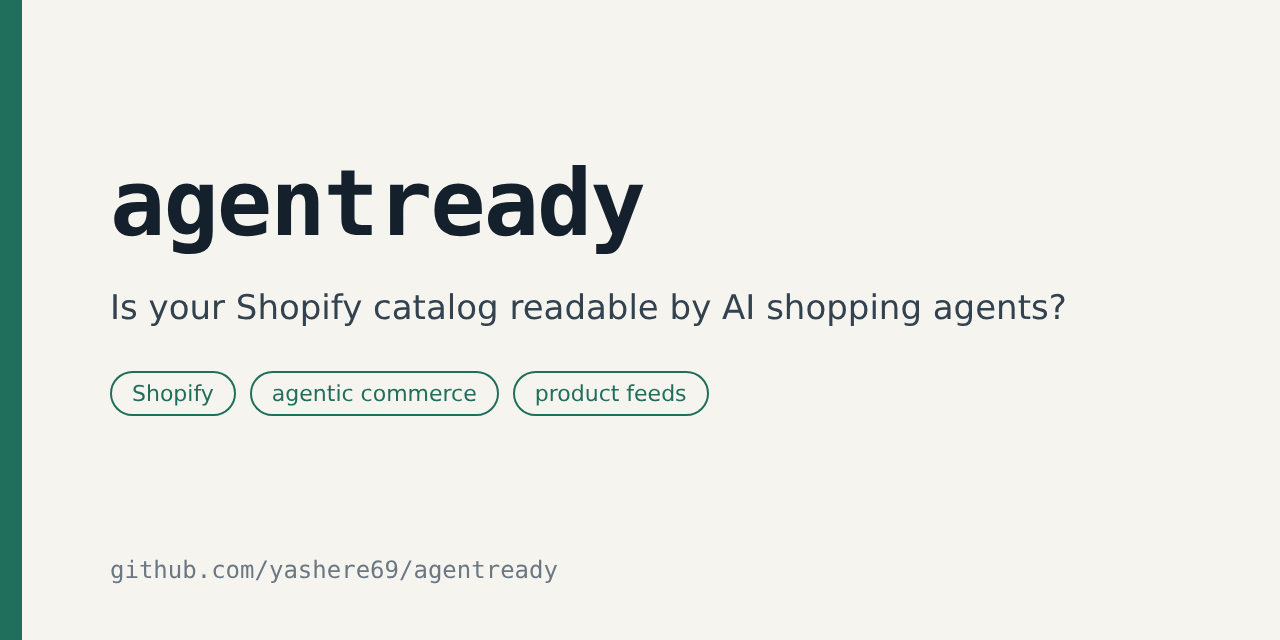
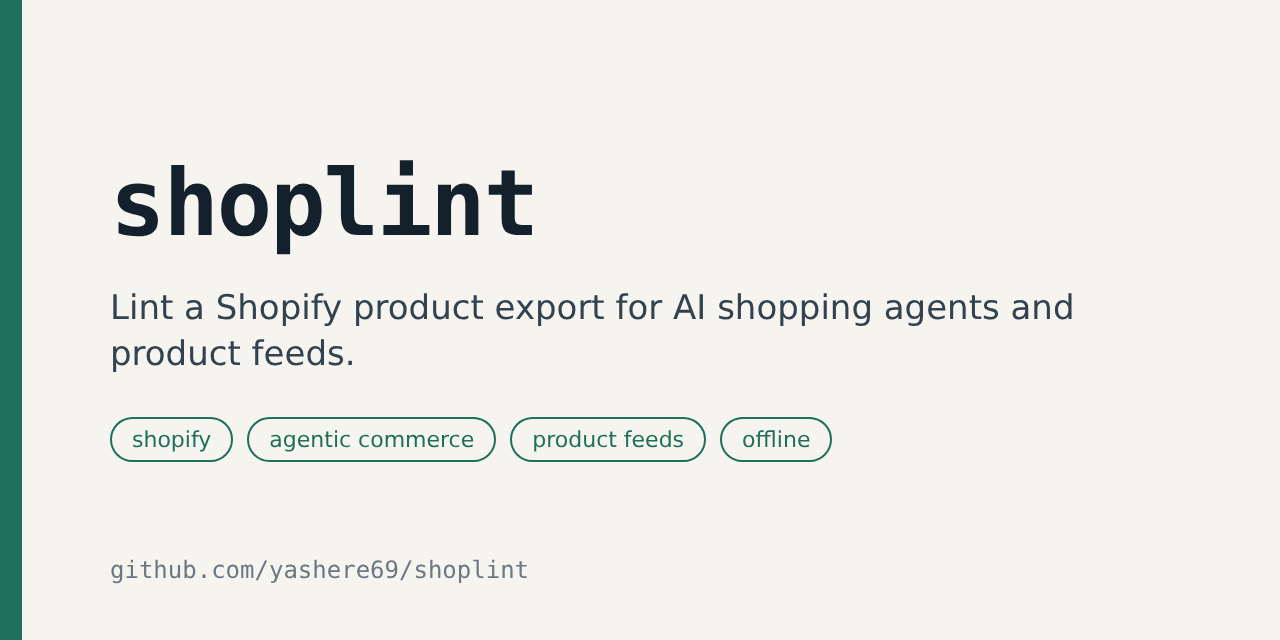
Release 0.3.0

Changed region(s): [[0.0938, 0.4375, 0.8438, 0.7188], [0.0938, 0.25, 0.5, 0.4062], [0.3125, 0.875, 0.4375, 0.9062]]

diff --git a/tests/test_probe_export_cli.py b/tests/test_probe_export_cli.py
@@ -17,7 +17,7 @@ AFTER = ROOT / "examples" / "indigo-loom-fixed.csv"
 def test_sample_catalog_matches_reviewed_expectations():
     findings = audit(read_csv(BEFORE), [load_pack(n) for n in builtin_packs()])
     got = sorted([f.rule, f.target] for f in findings if f.level != "info")
-    expected = sorted(yaml.safe_load((ROOT / "eval" / "expected.yaml").read_text()))
+    expected = sorted(yaml.safe_load((ROOT / "eval" / "expected.yaml").read_text(encoding="utf-8")))
     assert got == expected
 
 
@@ -64,9 +64,9 @@ def test_cli_audit_exit_codes_and_outputs(tmp_path, capsys):
         )
         == 1
     )
-    html = (tmp_path / "r.html").read_text()
+    html = (tmp_path / "r.html").read_text(encoding="utf-8")
     assert '<html lang="en">' in html and "acp.item-id" in html
-    data = json.loads((tmp_path / "r.json").read_text())
+    data = json.loads((tmp_path / "r.json").read_text(encoding="utf-8"))
     assert data["probe"]["questions"] > 0
     assert (
         main(
@@ -83,7 +83,7 @@ def test_cli_audit_exit_codes_and_outputs(tmp_path, capsys):
         )
         == 0
     )
-    assert len((tmp_path / "feed.jsonl").read_text().splitlines()) > 20
+    assert len((tmp_path / "feed.jsonl").read_text(encoding="utf-8").splitlines()) > 20
 
 
 def test_cli_rejects_unknown_file(capsys):
@@ -113,7 +113,7 @@ def test_large_catalog_stays_fast(tmp_path):
                 f"{size},SKU{i}{size},999"
             )
     p = tmp_path / "big.csv"
-    p.write_text("\n".join(lines))
+    p.write_text("\n".join(lines), encoding="utf-8")
     start = time.perf_counter()
     findings = audit(read_csv(p), [load_pack(n) for n in builtin_packs()])
     assert time.perf_counter() - start < 5  # was ~20 s when size systems were recounted
@@ -128,7 +128,8 @@ def test_custom_question_set(tmp_path, make_product):
         "- id: warranty\n  ask: Is there a warranty?\n"
         "  structured: {metafields: [warranty]}\n  prose: '\\bwarranty\\b'\n"
         "- id: voltage\n  ask: What voltage?\n  applies_if: {text: lamp}\n"
-        "  structured: {options: [voltage]}\n  prose: '\\d+ ?V\\b'\n"
+        "  structured: {options: [voltage]}\n  prose: '\\d+ ?V\\b'\n",
+        encoding="utf-8",
     )
     questions = load_questions(qs)
     kettle = make_product(title="Steel kettle", body_html="<p>1 year warranty</p>")
@@ -138,7 +139,7 @@ def test_custom_question_set(tmp_path, make_product):
 
 def test_bad_question_file_is_a_clean_error(tmp_path, capsys):
     qs = tmp_path / "q.yaml"
-    qs.write_text("- id: x\n  ask: y\n")
+    qs.write_text("- id: x\n  ask: y\n", encoding="utf-8")
     assert main(["audit", str(BEFORE), "--questions", str(qs)]) == 2
     assert "needs id, ask and prose" in capsys.readouterr().err
 
@@ -148,7 +149,7 @@ def test_findings_csv_and_input_protection(tmp_path):
 
     out = tmp_path / "fixes.csv"
     main(["audit", str(BEFORE), "--findings-csv", str(out), "--fail-on", "never"])
-    rows = list(csvmod.DictReader(out.open()))
+    rows = list(csvmod.DictReader(out.open(encoding="utf-8")))
     assert rows[0].keys() == {"level", "rule", "product", "detail", "why"}
     assert any(r["rule"] == "acp.item-id" for r in rows)
     copy = tmp_path / "in.csv"

diff --git a/tools/before_after.py b/tools/before_after.py
@@ -46,7 +46,7 @@ def main() -> None:
         lines.append(f"| {q} | {c['structured']}/{total} | {after['structured']}/{total} |")
     out = ROOT / "results" / "before-after.md"
     out.write_text("\n".join(lines) + "\n", encoding="utf-8")
-    print(out.read_text())
+    print(out.read_text(encoding="utf-8"))
 
 
 if __name__ == "__main__":

diff --git a/tests/test_shopify.py b/tests/test_shopify.py
@@ -35,6 +35,6 @@ def test_html_to_text():
 
 def test_rejects_non_shopify_csv(tmp_path):
     p = tmp_path / "x.csv"
-    p.write_text("name,price\nkurta,10\n")
+    p.write_text("name,price\nkurta,10\n", encoding="utf-8")
     with pytest.raises(ValueError, match="Handle"):
         read_csv(p)

diff --git a/src/shoplint/__init__.py b/src/shoplint/__init__.py
@@ -1,3 +1,3 @@
 """shoplint: catalog readiness checks for AI shopping agents."""
 
-__version__ = "0.2.0"
+__version__ = "0.3.0"

diff --git a/README.md b/README.md
@@ -24,8 +24,16 @@ fields per item, and Google's feeds have their own rules. A shopping agent answe
 "is this kurta cotton, and do you have it in XL?" works from these structured fields
 first. A fabric mentioned only in a paragraph of marketing copy may or may not get used.
 
-I help run a small ethnic-wear store on Shopify and wanted a way to see the catalog the way
-a feed or an agent sees it: field by field, not as the product page a person reads.
+shoplint shows the catalog the way a feed or an agent sees it: field by field, not as the
+product page a person reads. It works on the export file, offline, before anything is
+published.
+
+Online validators exist for the next step. An [ACP feed validator](https://frontend-aishoppingfeeds.pages.dev/tools/acp-feed-validator/)
+checks a feed you've already built, and "is your store AI-ready" checkers such as
+[ucptools.dev](https://ucptools.dev) look at a live store URL. Feed platforms like
+Feedonomics or GoDataFeed fix feeds as a paid service. shoplint sits before all of them.
+It reads the Shopify export you already have, points each finding at a product and row you
+can fix in the admin, and asks whether buyers' questions can be answered at all.
 
 ## Install and run
 
@@ -36,12 +44,23 @@ shoplint export products_export.csv --store-url https://yourstore.com --seller "
 ```
 
 Get the CSV from Shopify admin → Products → Export → "All products", "CSV for Excel,
-Numbers, or other spreadsheet programs". Nothing leaves your machine. A file that has been
-opened and re-saved in Excel on Windows (cp1252 rather than UTF-8) is read too.
+Numbers, or other spreadsheet programs". Nothing leaves your machine.
+
+Both header formats are read. Shopify's current template uses `URL handle`,
+`Description`, `Price` and `Continue selling when out of stock`, where older exports used
+`Handle`, `Body (HTML)`, `Variant Price` and `Variant Inventory Policy`. Headers are matched
+without regard to case or spacing. So are files that have been through a spreadsheet: a
+BOM, cp1252 from Excel on Windows, or semicolon or tab separators from European-locale
+Excel. 0.2 read only the older headers, so it refused every file exported from Shopify's
+current admin. `tests/test_formats.py` reads the sample catalog in both formats and
+requires identical results, and a hypothesis test feeds it random files: they must either
+audit or fail with a clear error.
 
 `--findings-csv` gives one row per problem (level, rule, product, detail, why), which is
 the form most stores actually work through: sort by product, fix, re-export, re-run. On a
-3,000-product, 12,000-variant export the audit takes about a third of a second.
+3,000-product, 12,000-variant export the audit takes about a third of a second. A
+20,800-product, 59,200-row file (17 MB) takes 3.7 s and peaks at 258 MB of memory, measured
+in a Linux container.
 
 ## What it checks
 
@@ -116,8 +135,11 @@ is skipped and reported on stderr. Two limits come from the CSV itself:
 
 - **Packs are dated.** These specs changed several times in 2025–26 and sources disagree
   on required field counts. A finding is only as good as the spec version behind it.
-- **Drafts are skipped** (they aren't syndicated), except by the rule that flags active
-  products with nothing to buy.
+- **Drafts and archived products are skipped** (they aren't syndicated), except by the
+  rule that flags active products with nothing to buy.
+- **Clothing rules apply to clothing.** Size and colour rules skip gift cards and any
+  product whose category is outside "Apparel & Accessories". A product with no category is
+  assumed to be apparel, since that's who the built-in packs are for.
 - **Size systems are classified, not normalised.** shoplint can tell you "S, M, 38, 40" is
   a mix. Mapping 38 to M is the store's call, so it doesn't guess.
 - **The sample catalog has reviewed expectations.** `eval/expected.yaml` lists every
@@ -132,7 +154,15 @@ More in [docs/architecture.md](docs/architecture.md).
 - Images aren't analysed. A colour variant pointing at the wrong photo won't be caught.
 - The built-in question set is tuned for Indian ethnic wear. Other categories need their
   own YAML; nothing else changes.
-- Google's UCP and Merchant Center have more rules than the apparel subset here.
+- Google's UCP and Merchant Center have more rules than the apparel subset here. UCP
+  checkout fields such as `native_commerce`, return policies and `consumer_notice` aren't
+  checked.
+- The format support is built from Shopify's column documentation and constructed files.
+  It hasn't been run on an export from a real store with tens of thousands of products, so
+  expect a column or two Shopify adds that it doesn't know about yet.
+
+Stable: the `audit` and `export` commands, the findings CSV, and the pack YAML format.
+Experimental: the question probe's scoring and the built-in question set.
 
 ## Development
 

diff --git a/CHANGELOG.md b/CHANGELOG.md
@@ -2,6 +2,19 @@
 
 Versions before 0.3.0 were published under the name agentready.
 
+## 0.3.0
+
+- Renamed from agentready: that name on PyPI belongs to an unrelated project.
+- Reads Shopify's current product CSV template (`URL handle`, `Description`, `Price`,
+  `Continue selling when out of stock`, `Barcodes`…) as well as older exports. 0.2 refused
+  every file exported from the current admin. Headers match without regard to case or
+  spacing.
+- Semicolon- and tab-separated files are read; a non-numeric image position no longer
+  stops the run.
+- Archived products are skipped like drafts. Size and colour rules skip gift cards and
+  products outside "Apparel & Accessories" (new `scope: apparel` in pack YAML).
+- Tests read the sample in both header formats, plus a hypothesis test over random files.
+
 ## 0.2.0
 
 - Buyer questions are YAML; `--questions` for other categories
